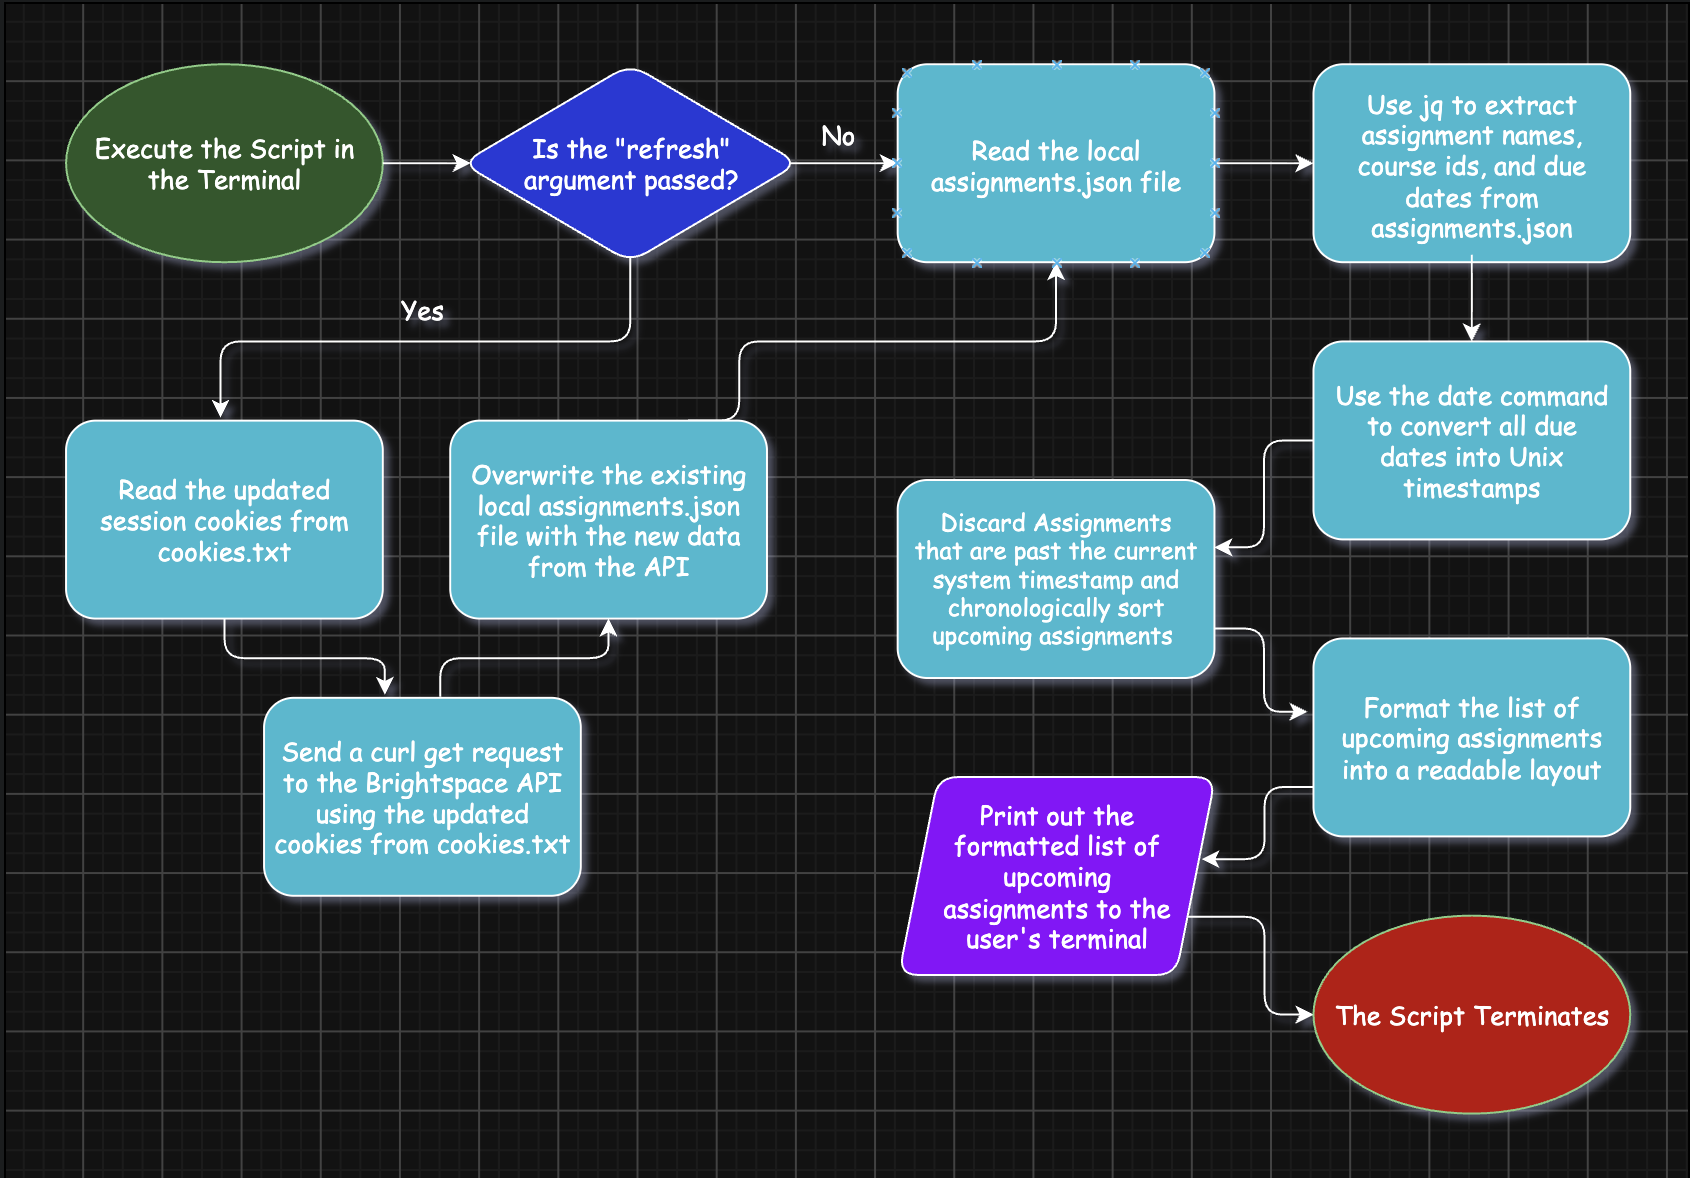
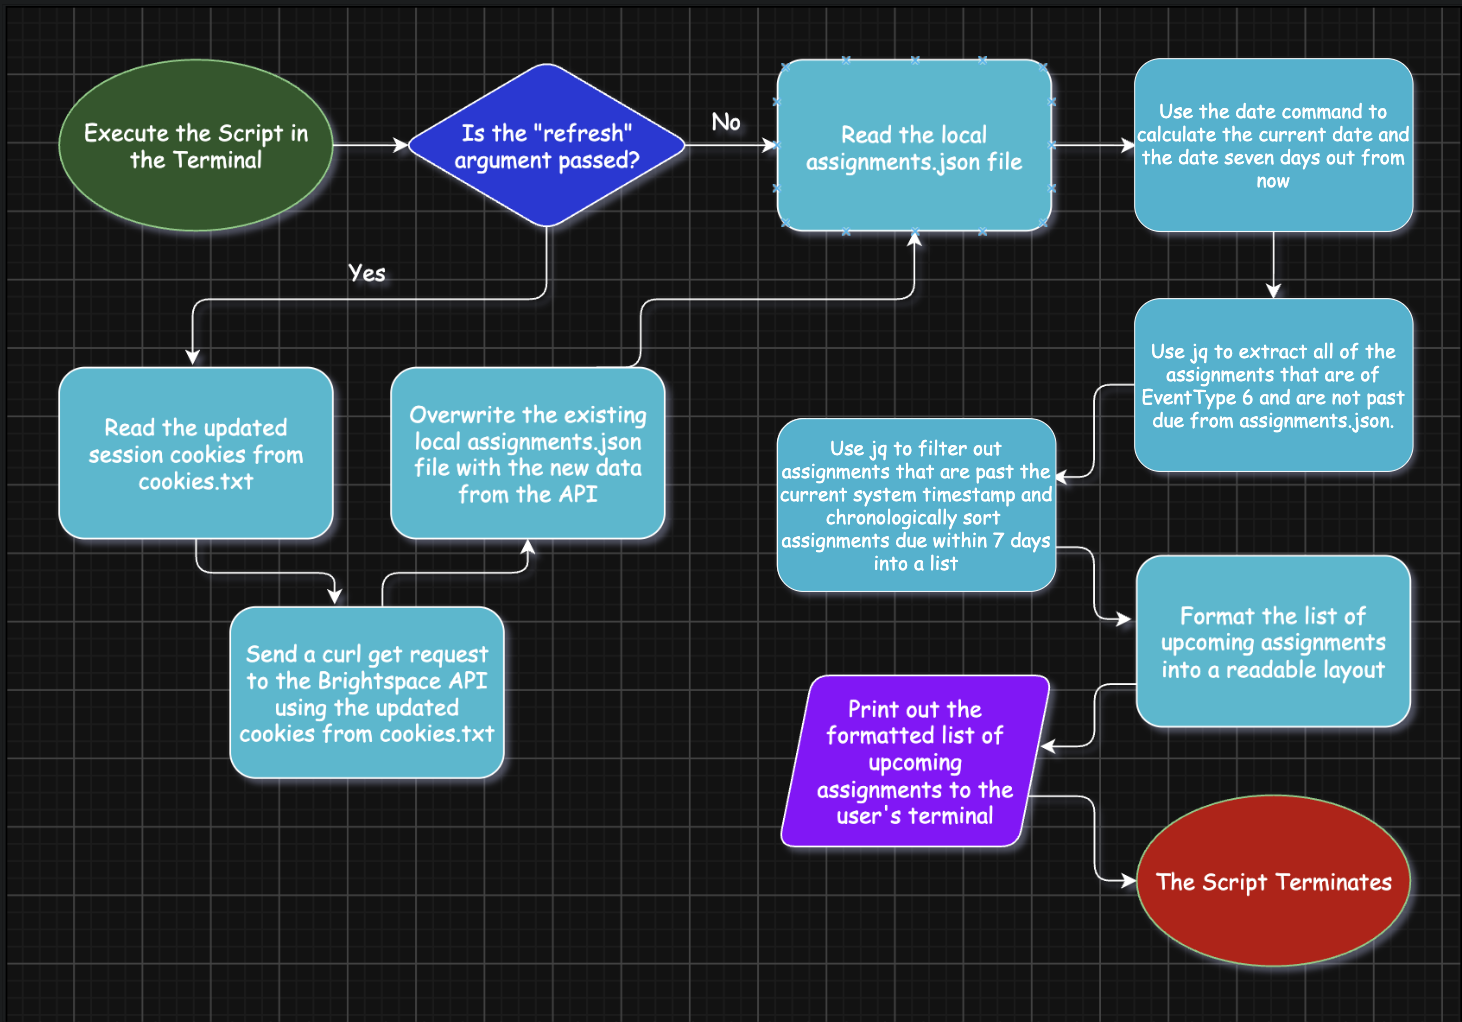
Made final edits to the README file and cleaned up the comments in the script

diff --git a/README.md b/README.md
@@ -4,17 +4,20 @@ A Bash Script that can fetch upcoming assignments from Brightspace and display t
 
 ## The Problem/Project Goal
 
-I'm trying to solve the hassle of having to log in to Brightspace multiple times a day to check my assignments. I often have to do this to avoid forgetting about assignments. I'm writing this Bash script to solve this problem by fetching upcoming assignments from Brightspace and displaying them within the terminal.
+I'm trying to solve the hassle of having to log in to Brightspace multiple times a day to check my assignments. I often have to do this to avoid forgetting about assignments. I wrote this Bash script to solve this problem by fetching upcoming assignments from Brightspace and displaying them within the terminal. This means I don't have to sign in to Brightspace all the time anymore since I can just check my assignments by running this script.
 
 ## How It Works
 
-- Read session cookies from a local cookies.txt file.
-- Fetch raw JSON data from the Brightspace REST API using curl.
-- Cache the data locally in the assignments.json file.
-- Extract assignments and their details using jq.
-- Compare due dates of each assignment against the system timestamp using the date command and drop assignments that are past due.
-- Format and print a clean list of upcoming assignments to the terminal.
-- Implement a refresh argument that can be used to update the local assignments.json file when cookies.txt has updated session cookies.
+**The First Time the script is run:**
+1. Reads session cookies from a local cookies.txt file.
+2. Fetches raw JSON data from the Brightspace REST API using curl.
+3. Caches the data locally in the assignments.json file.
+4. Extracts assignments and their details from assignments.json using jq.
+5. Compares due dates of each assignment against the system timestamp using the date command and drops assignments that are past due.
+6. Formats and prints a clean list of assignments in chronological order that are due within 7 days.
+
+**Every other time the script is run:** \
+Skips steps 1-3 from above and goes straight to step four since the assignments.json file already exists and already contains the assignment data.
 
 ![System diagram](FlowChart.png)
 
@@ -37,6 +40,7 @@ I'm trying to solve the hassle of having to log in to Brightspace multiple times
 Before running the script, ensure you have **Git** and **jq** installed:
 - **macOS:** `brew install git jq` 
 - **Windows (PowerShell):** `winget install Git.Git jqlang.jq` (Run the script using **Git Bash**)
+- **Linux:** Install git, curl, and jq via your distribution's package manager (for example, on Ubuntu/Debian: `sudo apt install git curl jq`)
 
 ## Setup Instructions
 1. **Clone the repository:**
@@ -44,17 +48,19 @@ Before running the script, ensure you have **Git** and **jq** installed:
    git clone https://github.com/Panugu08/Homework-Fetch.git
    cd Homework-Fetch
    ```
-2. **Get your Brightspace session cookie:**
+2. **Get your Brightspace session cookies:**
   - Log into Brightspace on your browser.
-  - Open the Developer Tools (**F12** or right-click and choose **Inspect**), navigate to the **Network** tab, and refresh the page.
-  - Switch to the **Console** tab, type `fetch('/d2l/api/lp/1.33/users/whoami')`, and hit Enter.
-  - Go back to the **Network** tab and click the **Fetch/XHR** filter.
-  - Right-click the `whoami` request that appears, hover over **Copy**, and select **Copy as cURL (bash)**.
+  - Open the Developer Tools (right-click and choose **Inspect**), navigate to the **Network** tab located on the very top menu bar, and refresh the page.
+  - Switch to the **Console** tab which is also located on the top menu bar, type `fetch('/d2l/api/lp/1.33/users/whoami')`, and hit Enter.
+  - Go back to the **Network** tab and find the **Filter** text box near the top.
+  - Type `whoami` in the **Filter** text box
+  - Right-click the `whoami` request that appears, hover over **Copy**, and select **Copy as cURL** or **Copy as cURL (bash)**.
 
 3. **Configure `cookies.txt`:**
-  - Paste that text into a notepad and find the massive string next to the `-b` flag. 
-  - Copy only the text _inside_ the single quotes (`'...'`). This is your `FULL_COOKIE_STRING`.
+  - Paste the copied text from the previous step into a notepad and find the massive string next to the `-b` flag. 
+  - Copy just the text _inside_ the single quotes (`'...'`). This is your `FULL_COOKIE_STRING`.
   - Rename the `cookies.example.txt` in this folder to `cookies.txt` and paste your string into the given template.
+  - **Do not make any other changes to the `cookies.txt` file**
   - *(Security Note: Never share your `cookies.txt` file or commit it to GitHub—it grants full access to your Brightspace account.)*
 
 4. **Run the script:**
@@ -62,12 +68,42 @@ Before running the script, ensure you have **Git** and **jq** installed:
    chmod +x homework.sh
    ./homework.sh
    ```
+    - Use the **Terminal** to run this on Mac or Linux
+    - Use the **Git Bash** app to run this on Windows
+
+**Example Runs**
+
+1. Working Example
+    ```
+    Upcoming Assignments (Next 7 Days):
+    -------------------------------------
+    Due in 6 days  |  Ch 9 Pt 4 - lecture 36 - climate change (November 30 at 01:30 PM)
+    -------------------------------------
+    ```
+
+2. Invalid Session Cookies Example:
+    ```
+    ❌ Error: Failed to fetch course data. Your session cookies are likely invalid or expired.
+    Please log into Brightspace, copy a fresh cookie string, and update cookies.txt. (Follow the instructions in the README file)
+    ```
+
+
+## How to Refresh Assignment data
+
+1. Follow steps 2 and 3 from the setup instructions to update cookies.txt with the new session cookies from Brightspace
+2. Then, run the script using the "--refresh" argument
+  ```bash
+    ./homework.sh --refresh
+  ```
+
+## Demo
+- [Demo Video]()
 
 ## Future Plans
 
-- [ ] **Browser Extension Support**: Parse Netscape-formatted cookie files exported from browser extensions so that the user doesn't have to manually paste session cookies into cookies.txt
+- [ ] **Browser Extension Support**: Use a browser extension to get the necessary cookies so that the user doesn't have to manually paste their session cookies into cookies.txt
 - [x] **Color coding**: Color coded terminal output based on urgency (Ex: Red for due in 24 hrs)
-- [ ] **Due date countdowns**: Text displaying "Due in X days" next to each upcoming assignment instead of the actual due date.
+- [x] **Due date countdowns**: Text displaying "Due in X hours/days" in front of each upcoming assignment
 - [ ] **Auto run**: Make the script run automatically when the terminal is opened
 - [ ] **Mark as Complete**: Allowing the user to mark completed assignments as complete so that they don't show up again
 
